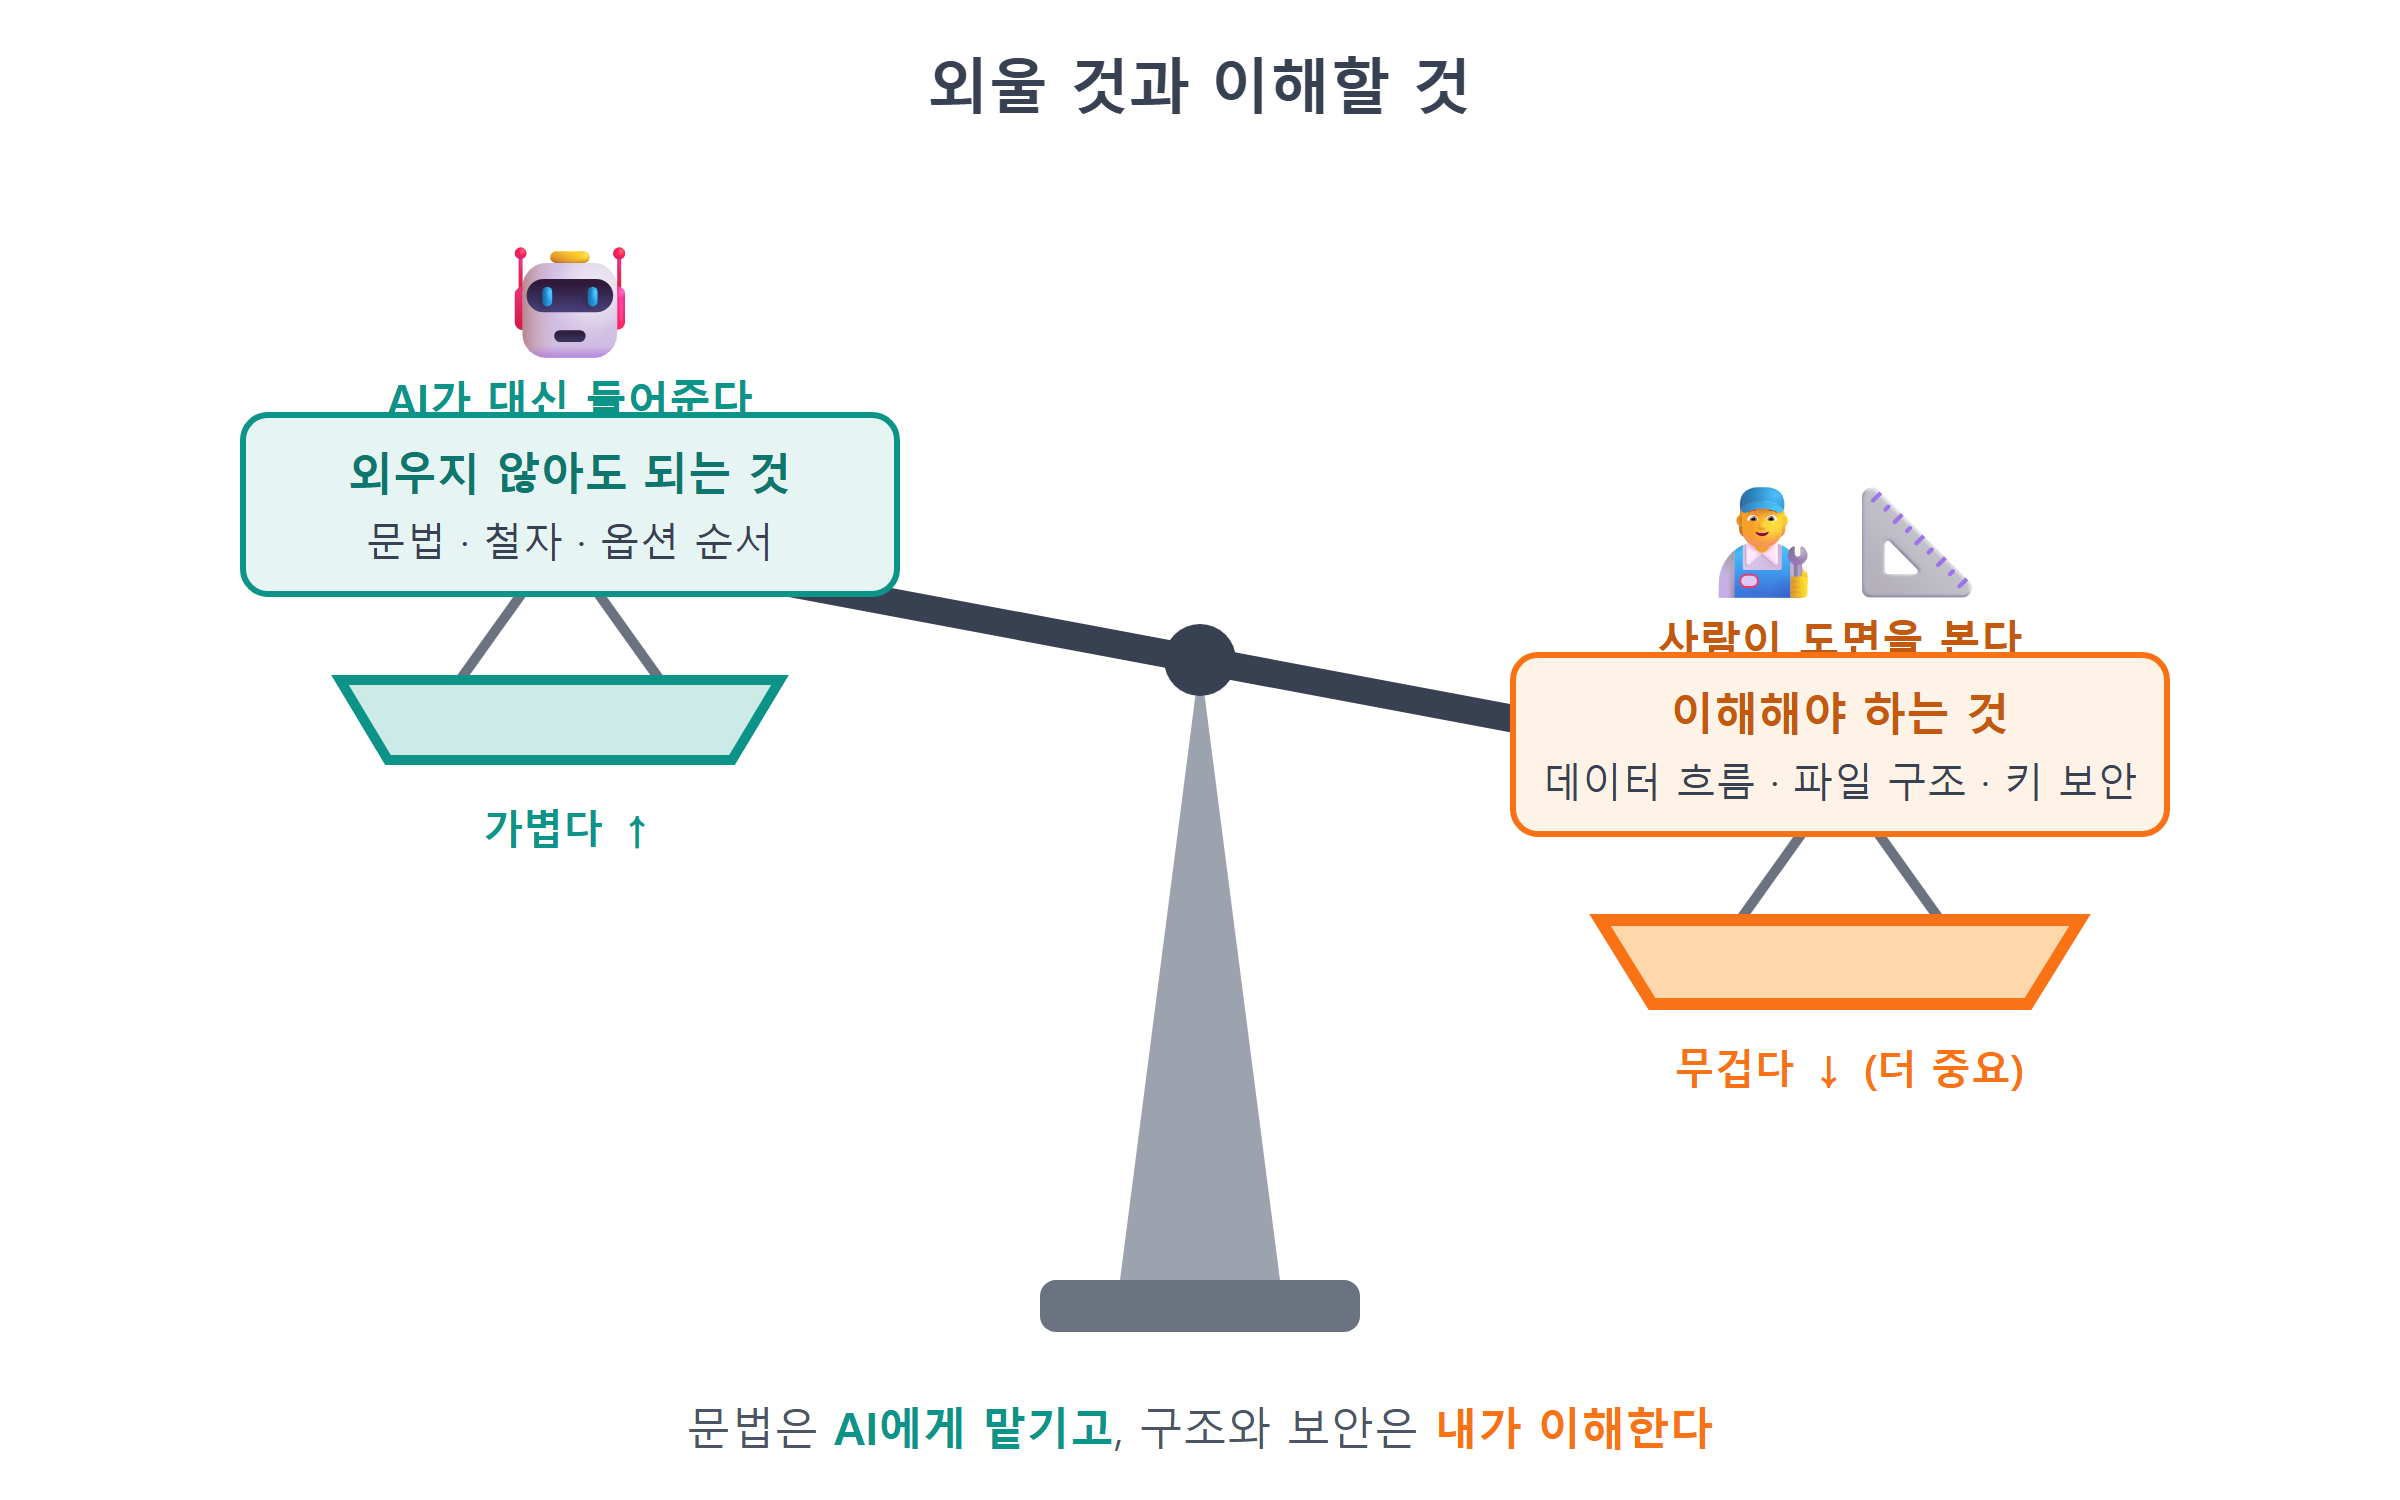
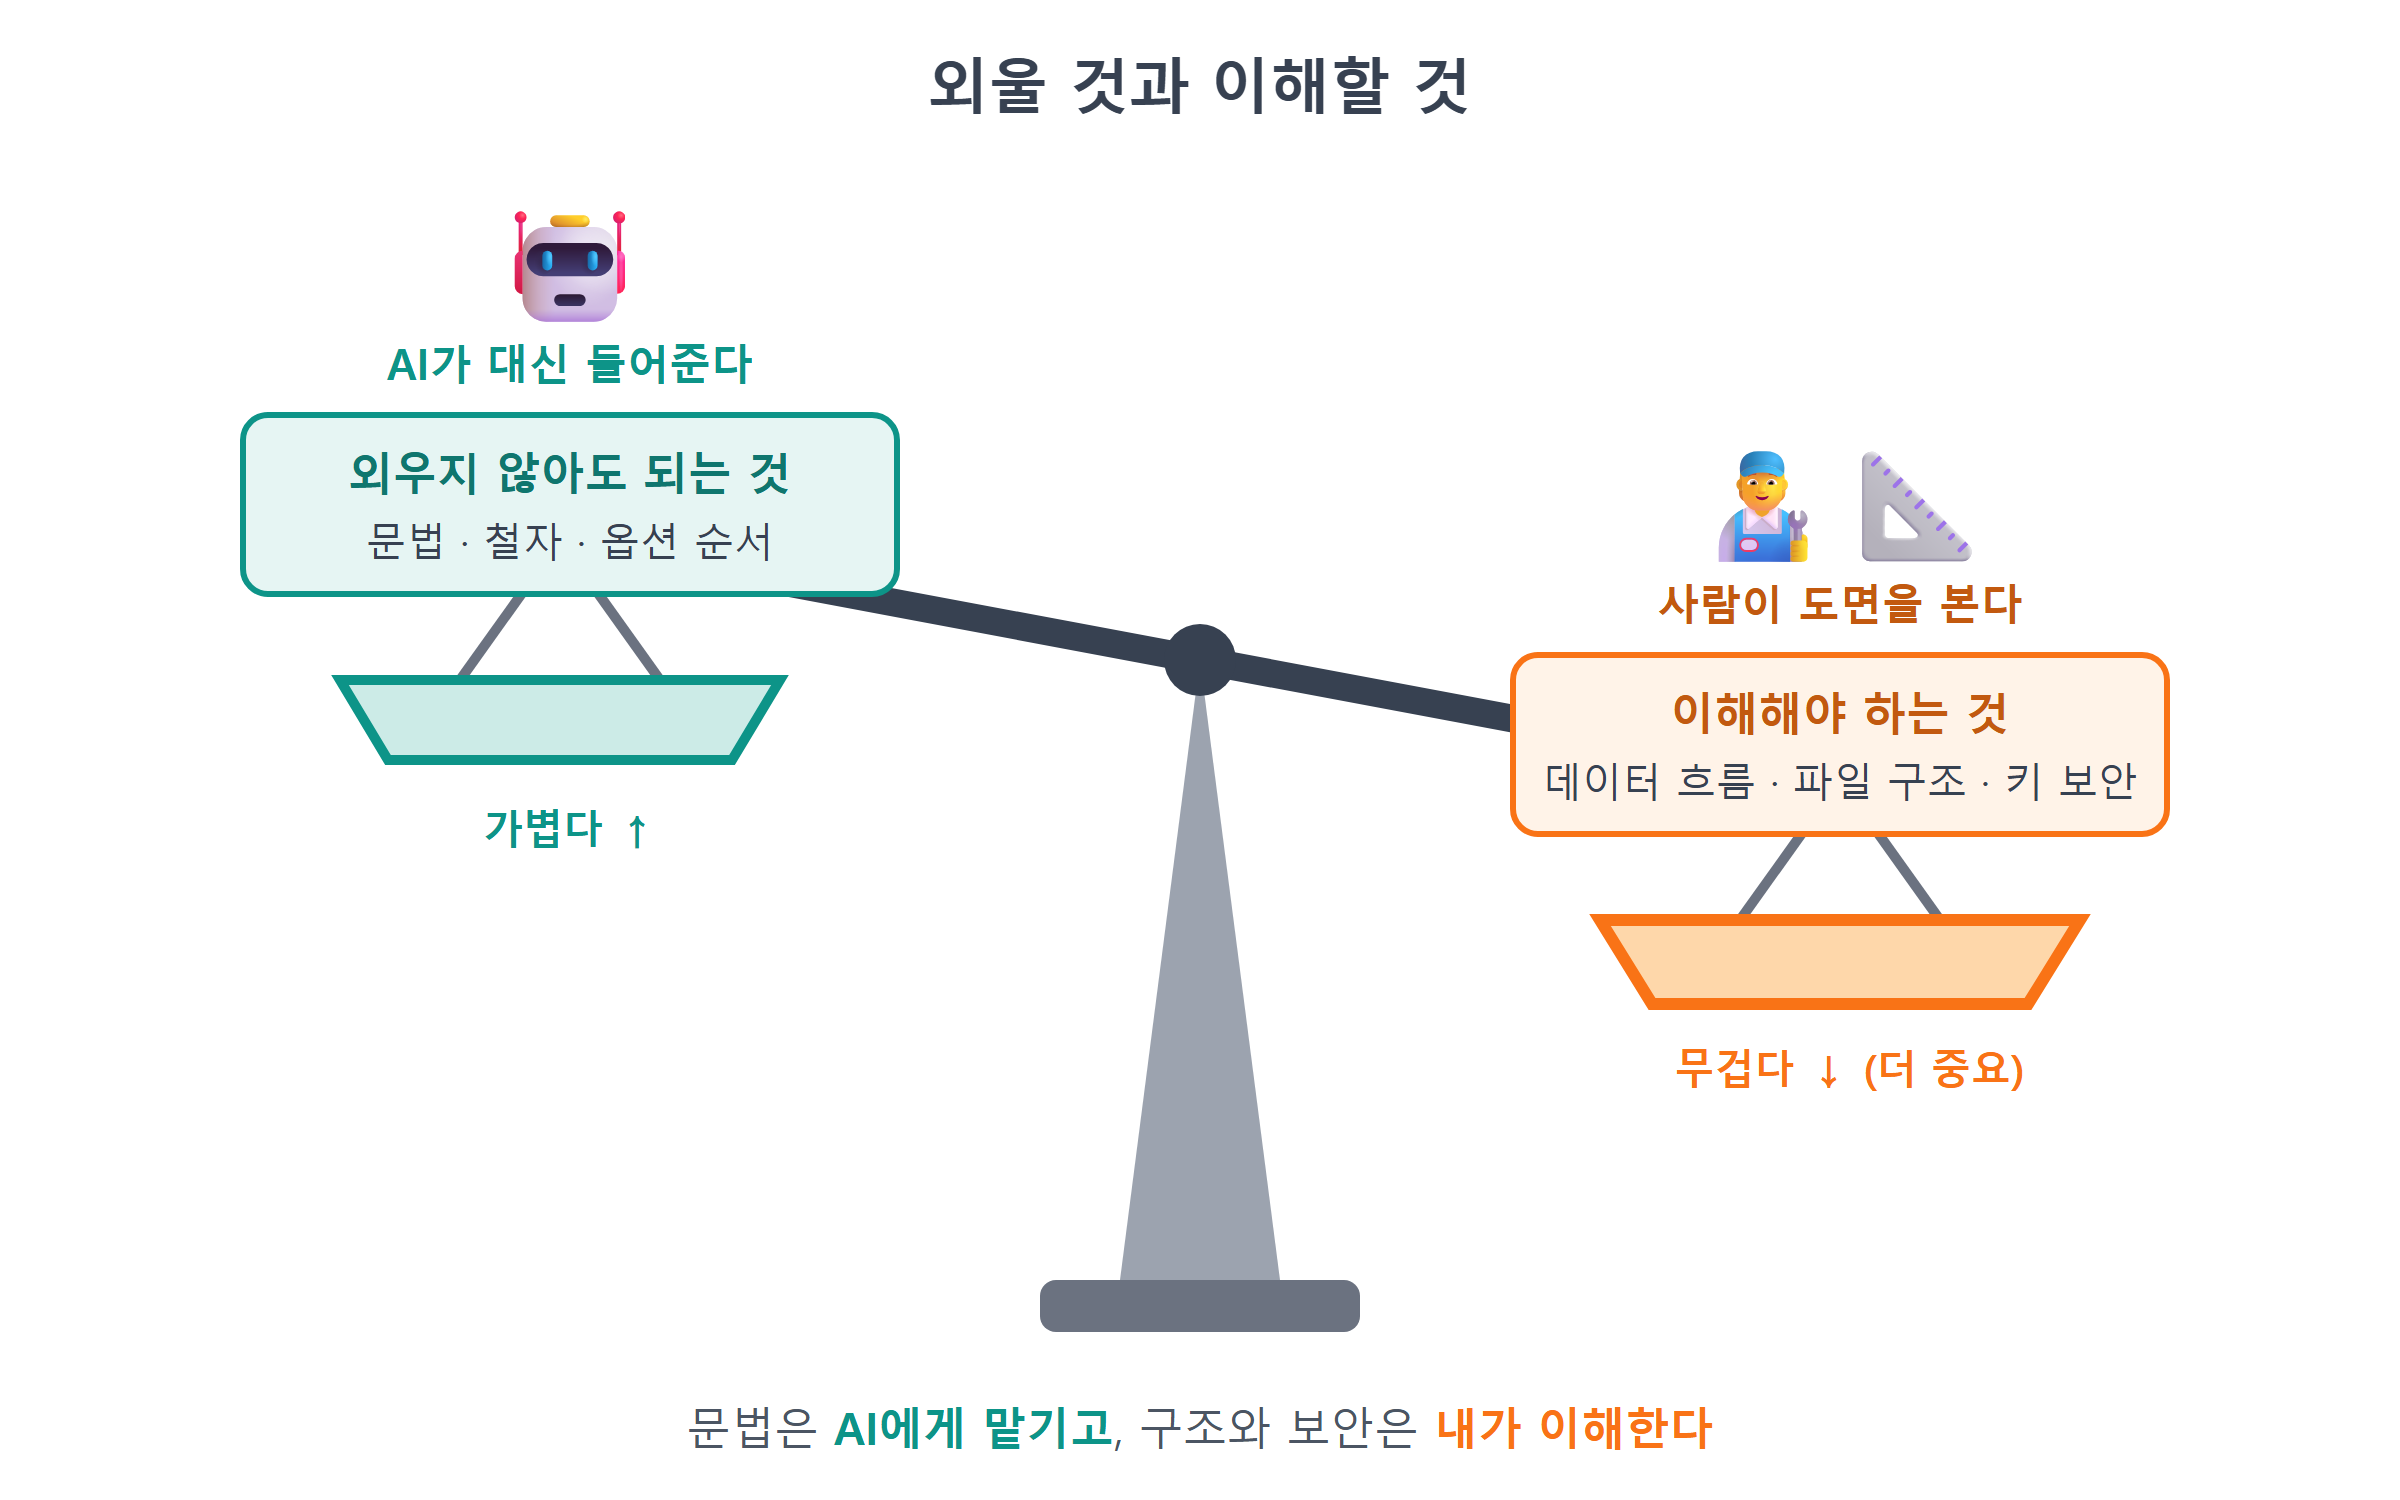
images: 다이어그램 16개 레이아웃 수정(라벨 잘림·겹침 해소) 재렌더 교체
Claude-Session: https://claude.ai/code/session_01Fham41EUftqQkiqL2UDMLz

Changed region(s): [[0.1562, 0.1227, 0.3125, 0.276], [0.6875, 0.3067, 0.8438, 0.4293]]

diff --git a/tools/diagrams/ch27-f02.html b/tools/diagrams/ch27-f02.html
@@ -11,10 +11,10 @@
 <body>
 <div id="canvas" style="width:1200px;height:750px;position:relative;background:#fff;overflow:hidden;">
 
-  <div style="position:absolute;top:22px;left:0;width:1200px;text-align:center;font-size:30px;font-weight:bold;color:#374151;">버그 리포트 3종 세트 — 증상 · 재현 절차 · 기대 결과</div>
+  <div style="position:absolute;top:16px;left:0;width:1200px;text-align:center;font-size:30px;font-weight:bold;color:#374151;">버그 리포트 3종 세트 — 증상 · 재현 절차 · 기대 결과</div>
 
   <!-- 가운데 벌레 캐릭터 -->
-  <div style="position:absolute;top:260px;left:520px;width:160px;text-align:center;">
+  <div style="position:absolute;top:274px;left:520px;width:160px;text-align:center;">
     <div style="width:150px;height:150px;margin:0 auto;background:#fff7ed;border:5px solid #f97316;border-radius:50%;display:flex;align-items:center;justify-content:center;font-size:84px;">🐛</div>
     <div style="margin-top:10px;font-size:24px;font-weight:bold;color:#f97316;">버그</div>
   </div>
@@ -22,9 +22,9 @@
   <!-- 돋보기 3개: 선(손잡이)이 버그를 향함 -->
   <svg width="1200" height="750" style="position:absolute;top:0;left:0;pointer-events:none;">
     <g stroke="#9ca3af" stroke-width="10" stroke-linecap="round">
-      <line x1="430" y1="250" x2="510" y2="300"/>
-      <line x1="600" y1="205" x2="600" y2="255"/>
-      <line x1="770" y1="250" x2="690" y2="300"/>
+      <line x1="440" y1="258" x2="512" y2="312"/>
+      <line x1="600" y1="258" x2="600" y2="284"/>
+      <line x1="760" y1="258" x2="688" y2="312"/>
     </g>
   </svg>
 
@@ -40,7 +40,7 @@
   </div>
 
   <!-- 돋보기 2: 재현 -->
-  <div style="position:absolute;top:40px;left:470px;width:330px;text-align:center;">
+  <div style="position:absolute;top:58px;left:470px;width:330px;text-align:center;">
     <div style="width:120px;height:120px;margin:0 auto;border-radius:50%;border:8px solid #f97316;background:#fff7ed;display:flex;align-items:center;justify-content:center;font-size:46px;">🔍</div>
     <div style="display:inline-block;background:#f97316;color:#fff;border-radius:12px;padding:12px 16px;margin-top:10px;">
       <div style="font-size:23px;font-weight:bold;">재현</div>
@@ -49,12 +49,12 @@
   </div>
 
   <!-- 돋보기 3: 기대 -->
-  <div style="position:absolute;top:70px;left:760px;width:340px;">
+  <div style="position:absolute;top:70px;left:748px;width:360px;">
     <div style="display:flex;align-items:center;gap:14px;flex-direction:row-reverse;">
       <div style="width:120px;height:120px;border-radius:50%;border:8px solid #6b7280;background:#f9fafb;display:flex;align-items:center;justify-content:center;font-size:46px;flex:none;">🔍</div>
       <div style="background:#6b7280;color:#fff;border-radius:12px;padding:12px 16px;">
         <div style="font-size:23px;font-weight:bold;">기대</div>
-        <div style="font-size:20px;margin-top:2px;">원래는 어때야 하나</div>
+        <div style="font-size:20px;margin-top:2px;white-space:nowrap;">원래는 어때야 하나</div>
       </div>
     </div>
   </div>

diff --git a/tools/diagrams/ch19-f05.html b/tools/diagrams/ch19-f05.html
@@ -21,7 +21,7 @@
   .alertwin .bar { background: #dc2626; color: #fff; font-size: 17px; padding: 4px 8px; border-radius: 4px 4px 0 0; }
   .alertwin .msg { font-size: 24px; font-weight: bold; padding: 14px; text-align: center; color: #1e293b; }
   .panelwin { background: #fff; border: 3px solid #16a34a; border-radius: 8px; width: 300px; margin-top: 6px; padding: 12px; font-size: 19px; font-family: Consolas, monospace; color: #1e293b; word-break: break-all; }
-  .blabel { position: absolute; font-size: 21px; font-weight: bold; }
+  .blabel { position: absolute; font-size: 20px; font-weight: bold; background: #fff; border: 2px solid; border-radius: 10px; padding: 6px 12px; text-align: center; line-height: 1.25; }
 </style>
 </head>
 <body>
@@ -57,8 +57,8 @@
     <line x1="665" y1="405" x2="778" y2="520" stroke="#16a34a" stroke-width="6" marker-end="url(#aGr)"/>
   </svg>
 
-  <div class="blabel" style="left:665px; top:245px; color:#dc2626;">escapeHtml 없음</div>
-  <div class="blabel" style="left:665px; top:480px; color:#16a34a;">escapeHtml 통과</div>
+  <div class="blabel" style="left:662px; top:261px; color:#dc2626; border-color:#dc2626;">escapeHtml<br>없음</div>
+  <div class="blabel" style="left:662px; top:431px; color:#16a34a; border-color:#16a34a;">escapeHtml<br>통과</div>
 
   <div class="branch bad">
     <h3>🚨 코드로 실행됨</h3>

diff --git a/tools/diagrams/ch26-f06.html b/tools/diagrams/ch26-f06.html
@@ -66,7 +66,7 @@
   </div>
 
   <!-- 위기 푯말들 -->
-  <div style="position:absolute;top:530px;left:355px;text-align:center;">
+  <div style="position:absolute;top:534px;left:418px;text-align:center;">
     <div style="background:#fff;border:2px solid #f97316;border-radius:8px;padding:4px 10px;font-size:18px;color:#f97316;font-weight:bold;">⚠ 회색 화면</div>
     <div style="width:4px;height:22px;background:#9ca3af;margin:0 auto;"></div>
   </div>
@@ -74,7 +74,7 @@
     <div style="background:#fff;border:2px solid #f97316;border-radius:8px;padding:4px 10px;font-size:18px;color:#f97316;font-weight:bold;">⚠ 403</div>
     <div style="width:4px;height:22px;background:#9ca3af;margin:0 auto;"></div>
   </div>
-  <div style="position:absolute;top:290px;left:855px;text-align:center;">
+  <div style="position:absolute;top:284px;left:1000px;text-align:center;">
     <div style="background:#fff;border:2px solid #f97316;border-radius:8px;padding:4px 10px;font-size:18px;color:#f97316;font-weight:bold;">⚠ 핀 지옥</div>
     <div style="width:4px;height:22px;background:#9ca3af;margin:0 auto;"></div>
   </div>

diff --git a/tools/diagrams/ch26-f05.html b/tools/diagrams/ch26-f05.html
@@ -47,7 +47,7 @@
   </div>
 
   <!-- ② 로그인 -->
-  <div style="position:absolute;top:36px;left:350px;width:260px;text-align:center;">
+  <div style="position:absolute;top:74px;left:350px;width:250px;text-align:center;">
     <div style="font-size:52px;">🧑🔑</div>
     <div style="background:#fff;border:3px solid #0d9488;border-radius:14px;padding:12px 14px;">
       <div style="font-size:24px;font-weight:bold;color:#0d9488;">② 로그인</div>
@@ -57,7 +57,7 @@
   </div>
 
   <!-- ③ 사진 업로드 -->
-  <div style="position:absolute;top:36px;left:610px;width:260px;text-align:center;">
+  <div style="position:absolute;top:74px;left:620px;width:250px;text-align:center;">
     <div style="font-size:52px;">📷</div>
     <div style="background:#fff;border:3px solid #f97316;border-radius:14px;padding:12px 14px;">
       <div style="font-size:24px;font-weight:bold;color:#f97316;">③ 사진 업로드</div>

diff --git a/tools/diagrams/ch23-f03.html b/tools/diagrams/ch23-f03.html
@@ -70,8 +70,8 @@
     <text x="880" y="110" font-size="21" fill="#6b7280">넓은 화면 (태블릿·PC)</text>
     <!-- 브레이크포인트 -->
     <line x1="600" y1="10" x2="600" y2="130" stroke="#f97316" stroke-width="4" stroke-dasharray="10 7"/>
-    <rect x="490" y="132" width="220" height="42" rx="21" fill="#f97316"/>
-    <text x="600" y="161" text-anchor="middle" font-size="23" font-weight="bold" fill="#fff">브레이크포인트 640px</text>
+    <rect x="448" y="132" width="304" height="42" rx="21" fill="#f97316"/>
+    <text x="600" y="160" text-anchor="middle" font-size="21" font-weight="bold" fill="#fff">브레이크포인트 640px</text>
     <text x="600" y="40" text-anchor="middle" font-size="20" fill="#f97316" font-weight="bold">배치가 꺾이는 지점</text>
   </svg>
 </div>

diff --git a/tools/diagrams/ch21-f04.html b/tools/diagrams/ch21-f04.html
@@ -23,7 +23,7 @@
   .msgr .label { font-size: 22px; font-weight: bold; color: #334155; margin-top: 4px; }
   .toplabel, .botlabel { position: absolute; width: 100%; text-align: center; font-size: 24px; font-weight: bold; }
   .toplabel { top: 105px; color: #0d9488; }
-  .botlabel { top: 620px; color: #f97316; }
+  .botlabel { top: 676px; color: #f97316; }
 </style>
 </head>
 <body>
